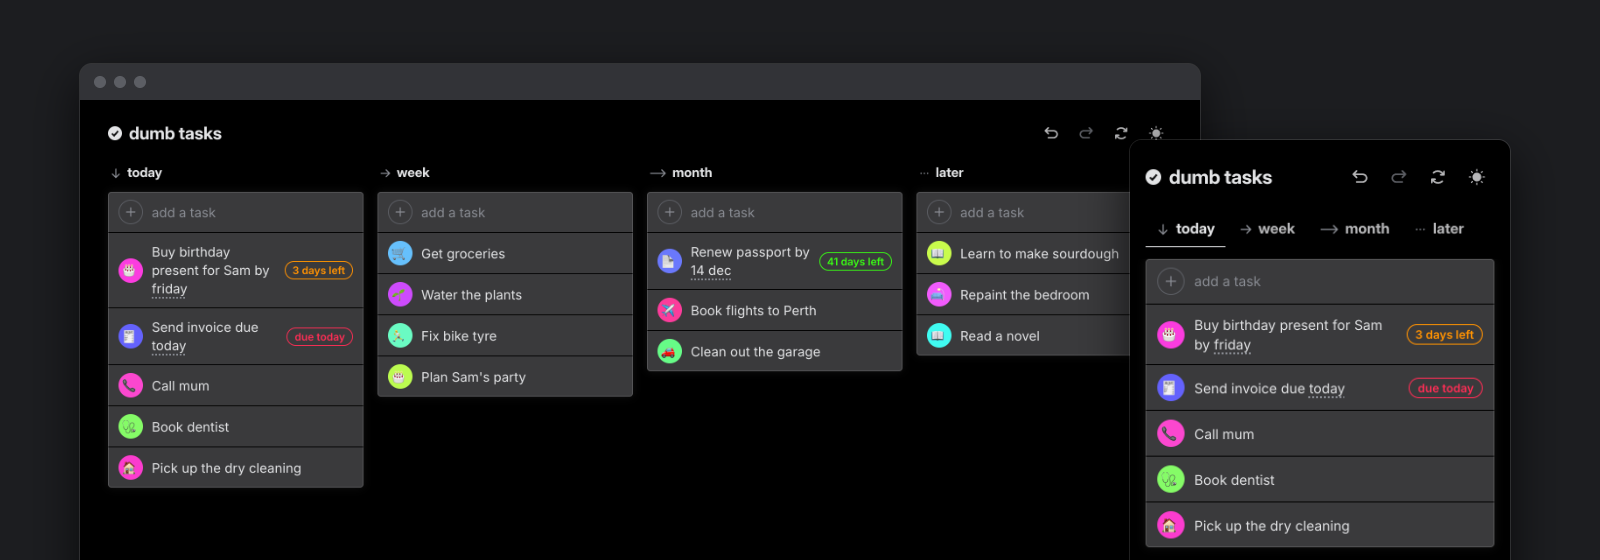
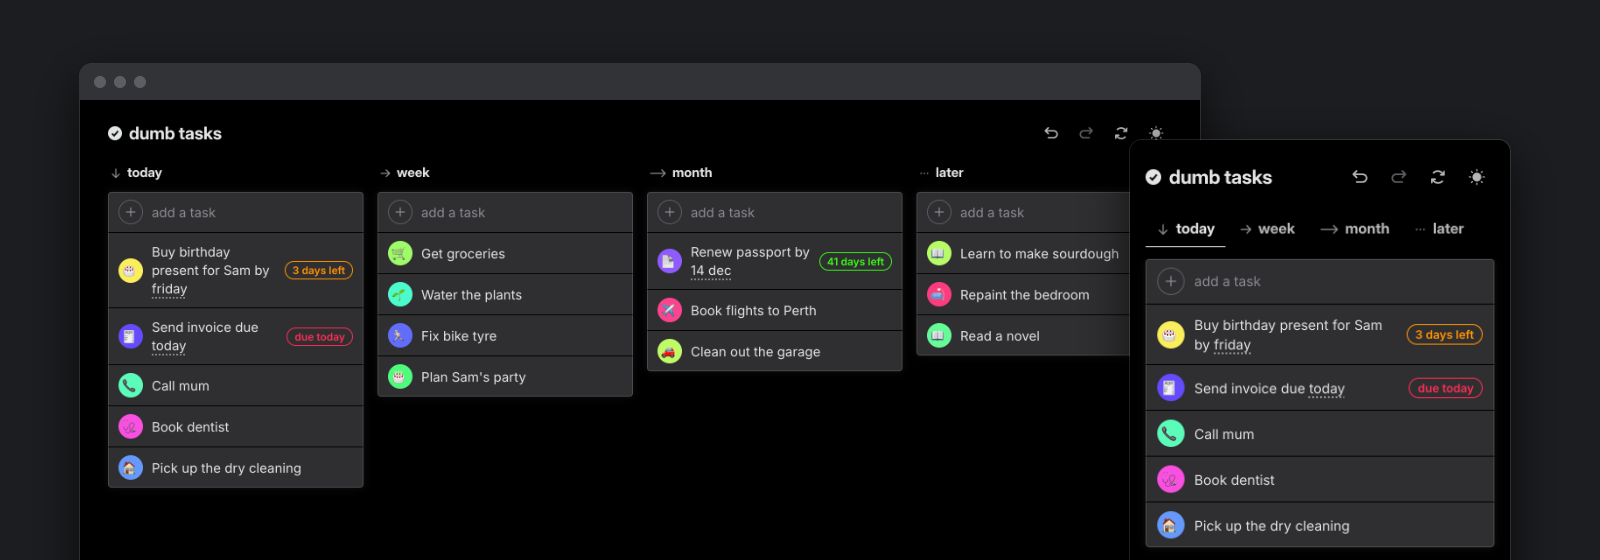
Darken list grey in dark mode

diff --git a/src/app.css b/src/app.css
@@ -15,7 +15,7 @@
 :root {
   /* Grey lists on a black page */
   --bg: #000000;
-  --surface: #3a3a3c;
+  --surface: #2f2f31;
   --text: #e3e4e6;
   --muted: #888b92;
   --border-strong: #5c5e64;
